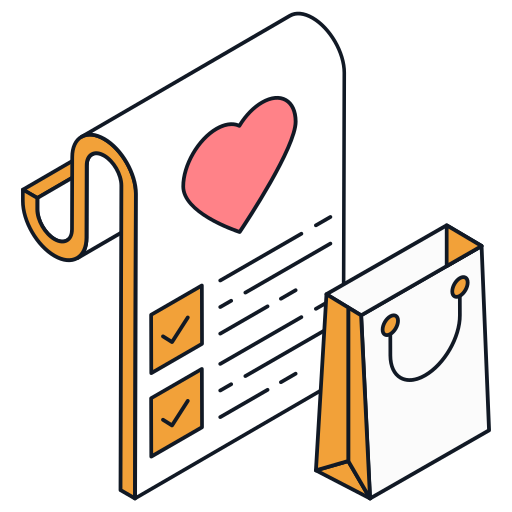
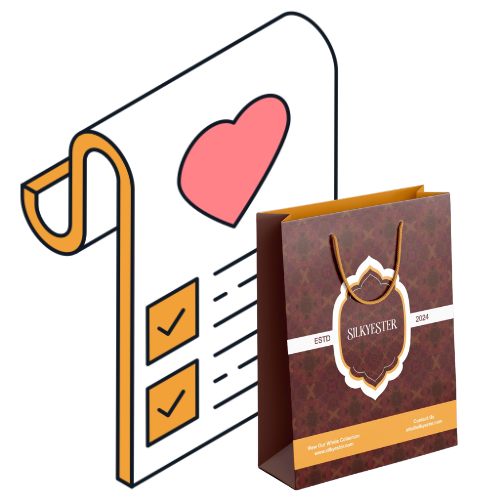
🐛 Fix: fix assets images

Changed region(s): [[0.51, 0.36, 0.96, 0.99]]

diff --git a/app/(root)/cancellation-and-refunds/page.tsx b/app/(root)/cancellation-and-refunds/page.tsx
@@ -1,11 +1,96 @@
-const Page = () => {
+export default function RefundPolicy() {
   return (
     <div className="max-w-laptop mx-auto p-6 my-10 select-text">
-      <h1 className="text-3xl font-bold mb-6">Cancellation and Refunds</h1>
+      <div className="max-w-3xl mx-auto">
+        <h1 className="text-3xl font-bold mb-6">Cancellation and Refunds</h1>
 
-      <p className="mb-6">this page is under development and will be updated soon</p>
+        {/* Refund Introduction */}
+        <section className="mb-10">
+          <p className="text-gray-700 mb-4">
+            At <span className="font-semibold">Silkyester</span>, we strive to provide the best-quality products to our
+            customers. However, if you are not completely satisfied with your purchase or have received a damaged or
+            incorrect product, you can apply for a refund as per the guidelines below.
+          </p>
+        </section>
+
+        {/* Refund Eligibility */}
+        <section className="mb-10">
+          <h2 className="text-2xl font-bold text-gray-800 mb-4">Conditions for Refund Eligibility</h2>
+          <ul className="list-disc list-inside space-y-2 text-gray-700">
+            <li>
+              The product must be unused, unwashed, and in its original condition along with all tags and packaging intact.
+            </li>
+            <li>
+              Refund requests must be initiated within <span className="font-semibold">24 hours</span> of delivery.
+            </li>
+            <li>
+              Customized and sale products are <span className="text-red-500 font-semibold">not eligible</span> for a refund.
+            </li>
+            <li>
+              If you receive a damaged, defective, or incorrect item, you must upload clear images of the product while
+              filling out the refund request.
+            </li>
+          </ul>
+        </section>
+
+        {/* Refund Process */}
+        <section className="mb-10">
+          <h2 className="text-2xl font-bold text-gray-800 mb-4">Refund Process</h2>
+          <p className="text-gray-700 mb-3">To request a refund, please follow these steps:</p>
+          <ol className="list-decimal list-inside space-y-2 text-gray-700">
+            <li>
+              Log in to your account on{" "}
+              <a href="https://www.silkyester.com" className="text-blue-600 hover:underline">
+                www.silkyester.com
+              </a>
+              .
+            </li>
+            <li>
+              Go to the <span className="font-semibold">"Return/Refund Request"</span> section.
+            </li>
+            <li>Fill out the required details and attach necessary photos if applicable.</li>
+            <li>Our customer support team will review your request.</li>
+            <li>If approved, our courier partner will schedule a pickup within 2-3 business days.</li>
+            <li>
+              Once the product is received and undergoes a quality check, the refund will be processed within 3-7 business
+              days to the original payment method.
+            </li>
+          </ol>
+        </section>
+
+        {/* Refund Not Received */}
+        <section className="mb-10">
+          <h2 className="text-2xl font-bold text-gray-800 mb-4">Refund Not Received?</h2>
+          <p className="text-gray-700">If you do not receive your refund within the mentioned timeframe:</p>
+          <ul className="list-disc list-inside space-y-2 text-gray-700">
+            <li>First, check your bank account statement or contact your payment provider.</li>
+            <li>If there is still an issue, feel free to contact our customer support team for assistance.</li>
+          </ul>
+        </section>
+
+        {/* Non-Eligible Cases */}
+        <section>
+          <h2 className="text-2xl font-bold text-gray-800 mb-4">Non-Eligible Cases for Returns & Refunds</h2>
+          <ul className="list-none space-y-2 text-gray-700">
+            <li className="flex items-center">
+              <span className="text-red-500 font-semibold text-lg mr-2">❌</span> The product has been used, washed, or
+              damaged after delivery.
+            </li>
+            <li className="flex items-center">
+              <span className="text-red-500 font-semibold text-lg mr-2">❌</span> The original tags and packaging are
+              missing.
+            </li>
+            <li className="flex items-center">
+              <span className="text-red-500 font-semibold text-lg mr-2">❌</span> The return request was initiated after 24
+              hours of delivery.
+            </li>
+            <li className="flex items-center">
+              <span className="text-red-500 font-semibold text-lg mr-2">❌</span> Products bought during a sale or special
+              promotion are not refundable.
+            </li>
+          </ul>
+        </section>
+      </div>
     </div>
   );
-};
-
-export default Page;
+}

diff --git a/app/(root)/shipping-and-returns/page.tsx b/app/(root)/shipping-and-returns/page.tsx
@@ -1,11 +1,94 @@
-const Page = () => {
-  return (
-    <div className="max-w-laptop mx-auto p-6 my-10 select-text">
-      <h1 className="text-3xl font-bold mb-6">Shipping and Returns</h1>
+import Link from "next/link";
 
-      <p className="mb-6">this page is under development and will be updated soon</p>
+export default function ShippingReturn() {
+  return (
+    <div className="max-w-laptop mx-auto p-6 text-gray-800 my-10 select-text">
+      <div className="max-w-3xl mx-auto">
+        <h1 className="text-3xl font-bold mb-4">Shipping and Return Policy</h1>
+
+        {/* Shipping Policy */}
+        <section className="mb-10">
+          <h2 className="text-2xl font-bold text-gray-800 mb-4">Shipping Policy</h2>
+          <p className="text-gray-700 mb-4">
+            At <span className="font-semibold">Silkyester</span>, we are committed to delivering your order quickly and
+            safely.
+          </p>
+
+          <div className="space-y-3">
+            <p>
+              <span className="font-semibold">Shipping Time:</span> We strive to deliver orders within 30 minutes (available
+              in selected cities). For other regions, delivery may take 3-7 business days.
+            </p>
+            <p>Once your order is confirmed, you will receive a tracking ID to track your order status.</p>
+            <p>
+              <span className="font-semibold">Shipping Charges:</span> Free shipping is available on all orders. Additional
+              charges may apply for express delivery.
+            </p>
+            <p>
+              <span className="font-semibold">Order Processing:</span> All orders are processed on business days
+              (Monday-Saturday). Orders are not shipped on public holidays, Sundays, and national holidays.
+            </p>
+          </div>
+        </section>
+
+        {/* Return and Refund Policy */}
+        <section className="mb-10">
+          <h2 className="text-2xl font-bold text-gray-800 mb-4">Return and Refund Policy</h2>
+          <p className="text-gray-700 mb-4">
+            We are committed to providing the best quality to our customers. If you face any issues, you can return the
+            product as per our return and refund policy.
+          </p>
+
+          <div className="space-y-3">
+            <p>
+              <span className="font-semibold">Return Conditions:</span> Products can be returned within 24 hours of delivery.
+              Returns will be accepted only if the product is unused, unwashed, and in its original packaging. Customized and
+              sale products are not eligible for return.
+            </p>
+
+            <p>
+              <span className="font-semibold">Return Process:</span>
+            </p>
+            <ul className="list-disc list-inside space-y-2">
+              <li>
+                Request a Return: Log in to our website{" "}
+                <a href="https://www.silkyester.com" className="text-blue-600 hover:underline">
+                  www.silkyester.com
+                </a>{" "}
+                and fill out the 'Return Request' form.
+              </li>
+              <li>Schedule Pickup: Our courier partner will pick up the product within 2-3 days.</li>
+              <li>Quality Check: The return will be accepted after verification by our team.</li>
+            </ul>
+
+            <p>
+              <span className="font-semibold">Refund/Exchange:</span> Refunds will be processed within 3-7 business days in
+              the original payment mode. If you request an exchange, the new product will be shipped as soon as possible.
+            </p>
+
+            <p>
+              <span className="font-semibold">Conditions for Non-Acceptance of Returns:</span>
+            </p>
+            <ul className="list-disc list-inside space-y-2">
+              <li>If the product has been used or is in a damaged condition.</li>
+              <li>If the original tags and packaging are missing.</li>
+              <li>If the return window (24 hours) has expired.</li>
+            </ul>
+          </div>
+        </section>
+
+        {/* Contact Section */}
+        <section>
+          <h2 className="text-2xl font-bold text-gray-800 mb-4">Contact Us</h2>
+          <p className="text-gray-700">
+            If you need any assistance, please visit our website's profile section where you will find complete company
+            contact information.{" "}
+            <Link href={"/contact-us"} className="text-blue-600 hover:underline">
+              Contact Us
+            </Link>
+          </p>
+        </section>
+      </div>
     </div>
   );
-};
-
-export default Page;
+}

diff --git a/app/(root)/layout.tsx b/app/(root)/layout.tsx
@@ -18,6 +18,11 @@ const inter = Inter({ subsets: ["latin"] });
 export const metadata: Metadata = {
   title: "Online Shopping for Men, Women & Kids - Fashion & Lifestyle | Silkyester",
   description: "Online Shopping for Men, Women & Kids - Fashion & Lifestyle | Silkyester",
+  icons: {
+    icon: "assets/hindi_logo.png",
+    shortcut: "assets/hindi_logo.png",
+    apple: "assets/hindi_logo.png",
+  },
 };
 
 export default function RootLayout({
@@ -29,7 +34,6 @@ export default function RootLayout({
     <html lang="en" suppressHydrationWarning>
       <head>
         <title>Online Shopping for Men, Women & Kids - Fashion & Lifestyle | Silkyester</title>
-        <link rel="icon" href="/assets/hindi-round.PNG" />
         <meta
           name="description"
           content="Shop the latest fashion trends for Men, Women & Kids at Silkyester. Discover stylish clothing, accessories, and lifestyle products with the best deals & fast delivery!"

diff --git a/components/Shared/loader.tsx b/components/Shared/loader.tsx
@@ -8,7 +8,7 @@ const Loader = () => {
         <div className={Styles.truckWrapper}>
           <div className={`${Styles.truckBody} relative overflow-hidden`}>
             <Image
-              src="/assets/Pattern.png"
+              src="/assets/silkyester_pattern.png"
               alt="truck"
               width={0}
               height={0}
@@ -16,7 +16,7 @@ const Loader = () => {
               className="w-[78px] h-[94%] ml-[5px]  mt-[2px] absolute left-0"
             />
             <Image
-              src="/assets/logo_bg.png"
+              src="/assets/logo_text.png"
               alt="truck"
               width={0}
               height={0}

diff --git a/components/Shared/Header.tsx b/components/Shared/Header.tsx
@@ -65,7 +65,7 @@ const Header = () => {
             <Link href={"/"} className="z-20 overflow-hidden">
               {/* <h2 className="text-xl tablet:text-2xl font-bold uppercase tracking-wide">Silkyester</h2> */}
               <Image
-                src="/assets/logo_bg.png"
+                src="/assets/logo_text.png"
                 alt="logo"
                 className="object-cover w-44 h-full scale-125 zoom-in-90 transition-transform duration-300"
                 width="0"

diff --git a/app/(root)/cart/_page.tsx b/app/(root)/cart/_page.tsx
@@ -127,7 +127,7 @@ const MyCart = ({ setActiveStep }: { setActiveStep: React.Dispatch<React.SetStat
           <div>
             <div className="text-light-1">No items in your cart</div>
             <Image
-              src="/assets/bag.png"
+              src="/assets/cart_bag.png"
               alt="empty"
               width={0}
               height={0}

diff --git a/app/(root)/sign-in/page.tsx b/app/(root)/sign-in/page.tsx
@@ -28,7 +28,7 @@ const Page = () => {
 
         <div className="bg-background rounded-t-xl flex flex-col justify-center h-max w-full tablet:max-w-[450px] m-auto p-2 tablet:p-5 py-8">
           <Image
-            src="/assets/logo1.png"
+            src="/assets/logo_200x200.png"
             alt="signin"
             width={0}
             height={0}

diff --git a/app/(root)/cart/page.tsx b/app/(root)/cart/page.tsx
@@ -28,7 +28,7 @@ const Page = () => {
             <div>
               <div className="text-light-1">No items in your cart</div>
               <Image
-                src="/assets/bag.png"
+                src="/assets/cart_bag.png"
                 alt="empty"
                 width={0}
                 height={0}

diff --git a/app/(root)/wishlist/page.tsx b/app/(root)/wishlist/page.tsx
@@ -30,7 +30,7 @@ const Page = () => {
           <div>
             <div className="text-light-1">No items in your wishlist</div>
             <Image
-              src="/assets/bag__.png"
+              src="/assets/wishlist.png"
               alt="empty"
               width={0}
               height={0}
